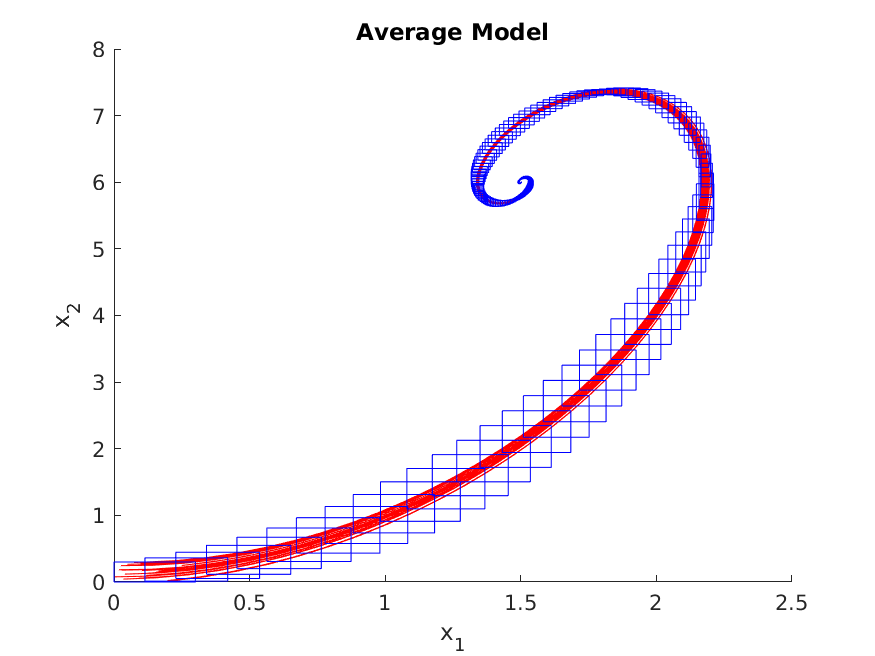
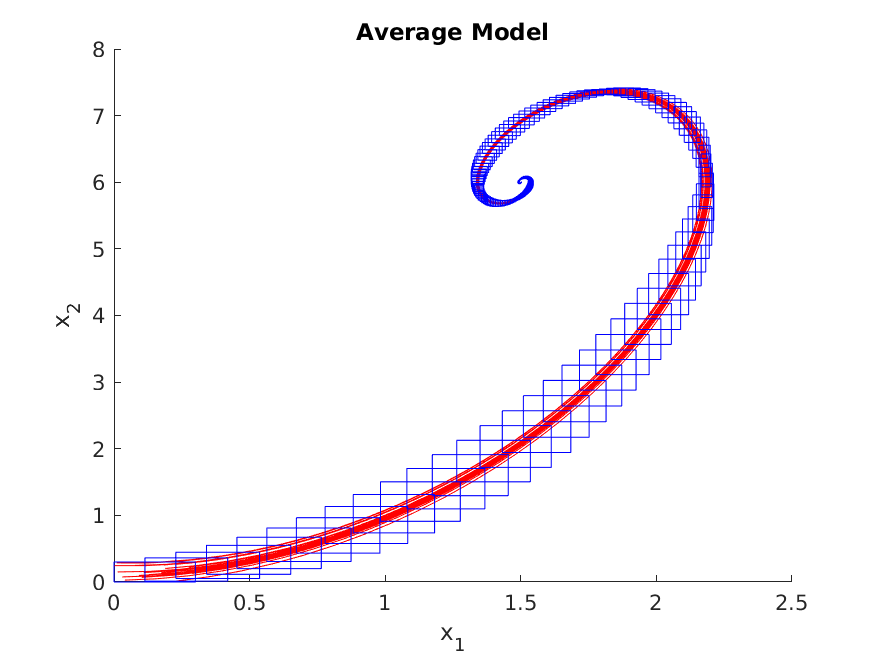
Minor fix in controller

diff --git a/MultFreqAvgModel/reachMFAM.m b/MultFreqAvgModel/reachMFAM.m
@@ -5,8 +5,8 @@ clc;clear;close all
 %% Load Controller
 
 load('final_model.mat'); % Load weights
-layer1 = LayerS(W{1},b{1}','purelin'); % hidden layer #1
-layer2 = LayerS(W{2},b{2}','purelin'); % hidden layer #2
+layer1 = LayerS(W{1},b{1}','poslin'); % hidden layer #1
+layer2 = LayerS(W{2},b{2}','poslin'); % hidden layer #2
 layer3 = LayerS(W{3},b{3}','satlins'); % output layer (satlins)
 layer4 = LayerS(0.5,0.5,'purelin'); % Normalization
 Layers = [layer1 layer2 layer3 layer4];
@@ -99,7 +99,7 @@ reachSet = [init_set];
 reachAll = [init_set];
 for i=1:N
     inNN = input_to_Controller(Vref,init_set);
-    outC = Controller.reach(inNN,'exact-star');
+    outC = Controller.reach(inNN,'approx-star');
     if outC.nVar > 1000
         outC = outC.getBox;
         outC = outC.toStar;

diff --git a/HybridModel/reach_HM.m b/HybridModel/reach_HM.m
@@ -6,10 +6,9 @@ clc;clear;close all
 
 % Controller
 load('final_model.mat'); % Load weights
-layer1 = LayerS(W{1},b{1}','purelin'); % hidden layer #1
-layer2 = LayerS(W{2},b{2}','purelin'); % hidden layer #2
+layer1 = LayerS(W{1},b{1}','poslin'); % hidden layer #1
+layer2 = LayerS(W{2},b{2}','poslin'); % hidden layer #2
 layer3 = LayerS(W{3},b{3}','satlins'); % output layer (satlins)
-% layer4 = LayerS(0.5,1,'purelin'); % Normalization
 layer4 = LayerS(0.5,0.5,'purelin'); % Normalization
 Layers = [layer1 layer2 layer3 layer4];
 % Layers = [layer1 layer2 layer3];

diff --git a/AverageModel/reachAM.m b/AverageModel/reachAM.m
@@ -5,8 +5,8 @@ clc;clear;close all
 %% Load Controller
 
 load('final_model.mat'); % Load weights
-layer1 = LayerS(W{1},b{1}','purelin'); % hidden layer #1
-layer2 = LayerS(W{2},b{2}','purelin'); % hidden layer #2
+layer1 = LayerS(W{1},b{1}','poslin'); % hidden layer #1
+layer2 = LayerS(W{2},b{2}','poslin'); % hidden layer #2
 layer3 = LayerS(W{3},b{3}','satlins'); % output layer (satlins)
 layer4 = LayerS(0.5,0.5,'purelin'); % Normalization
 Layers = [layer1 layer2 layer3 layer4];
